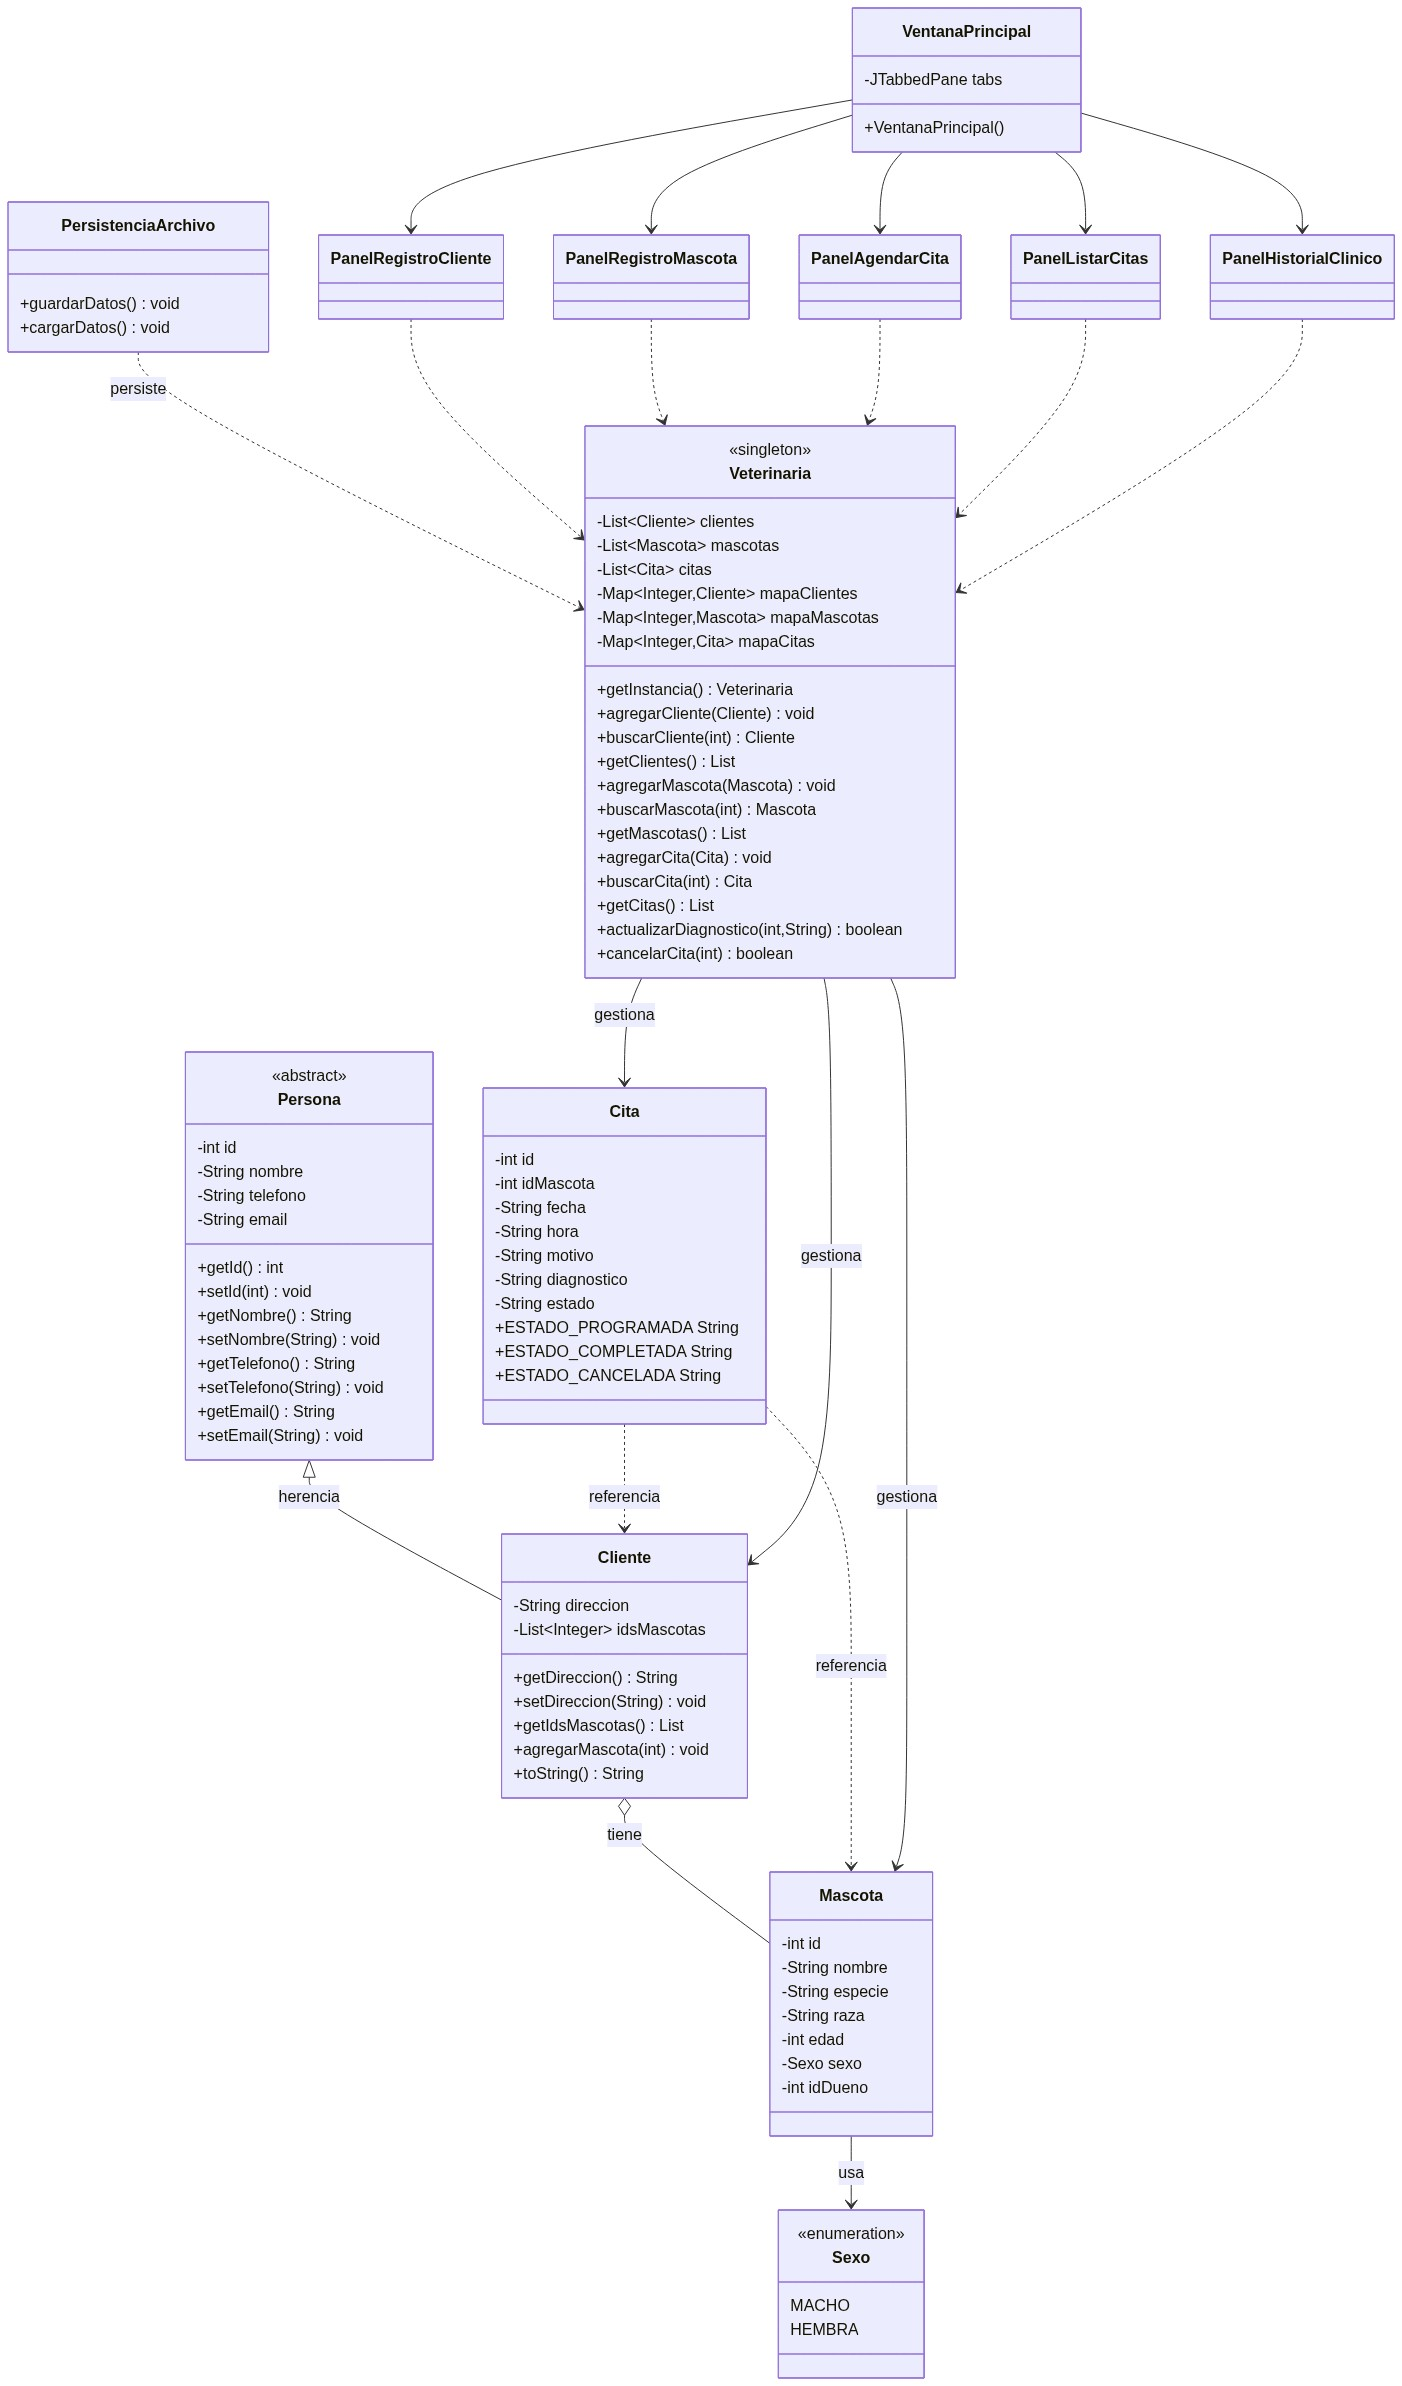
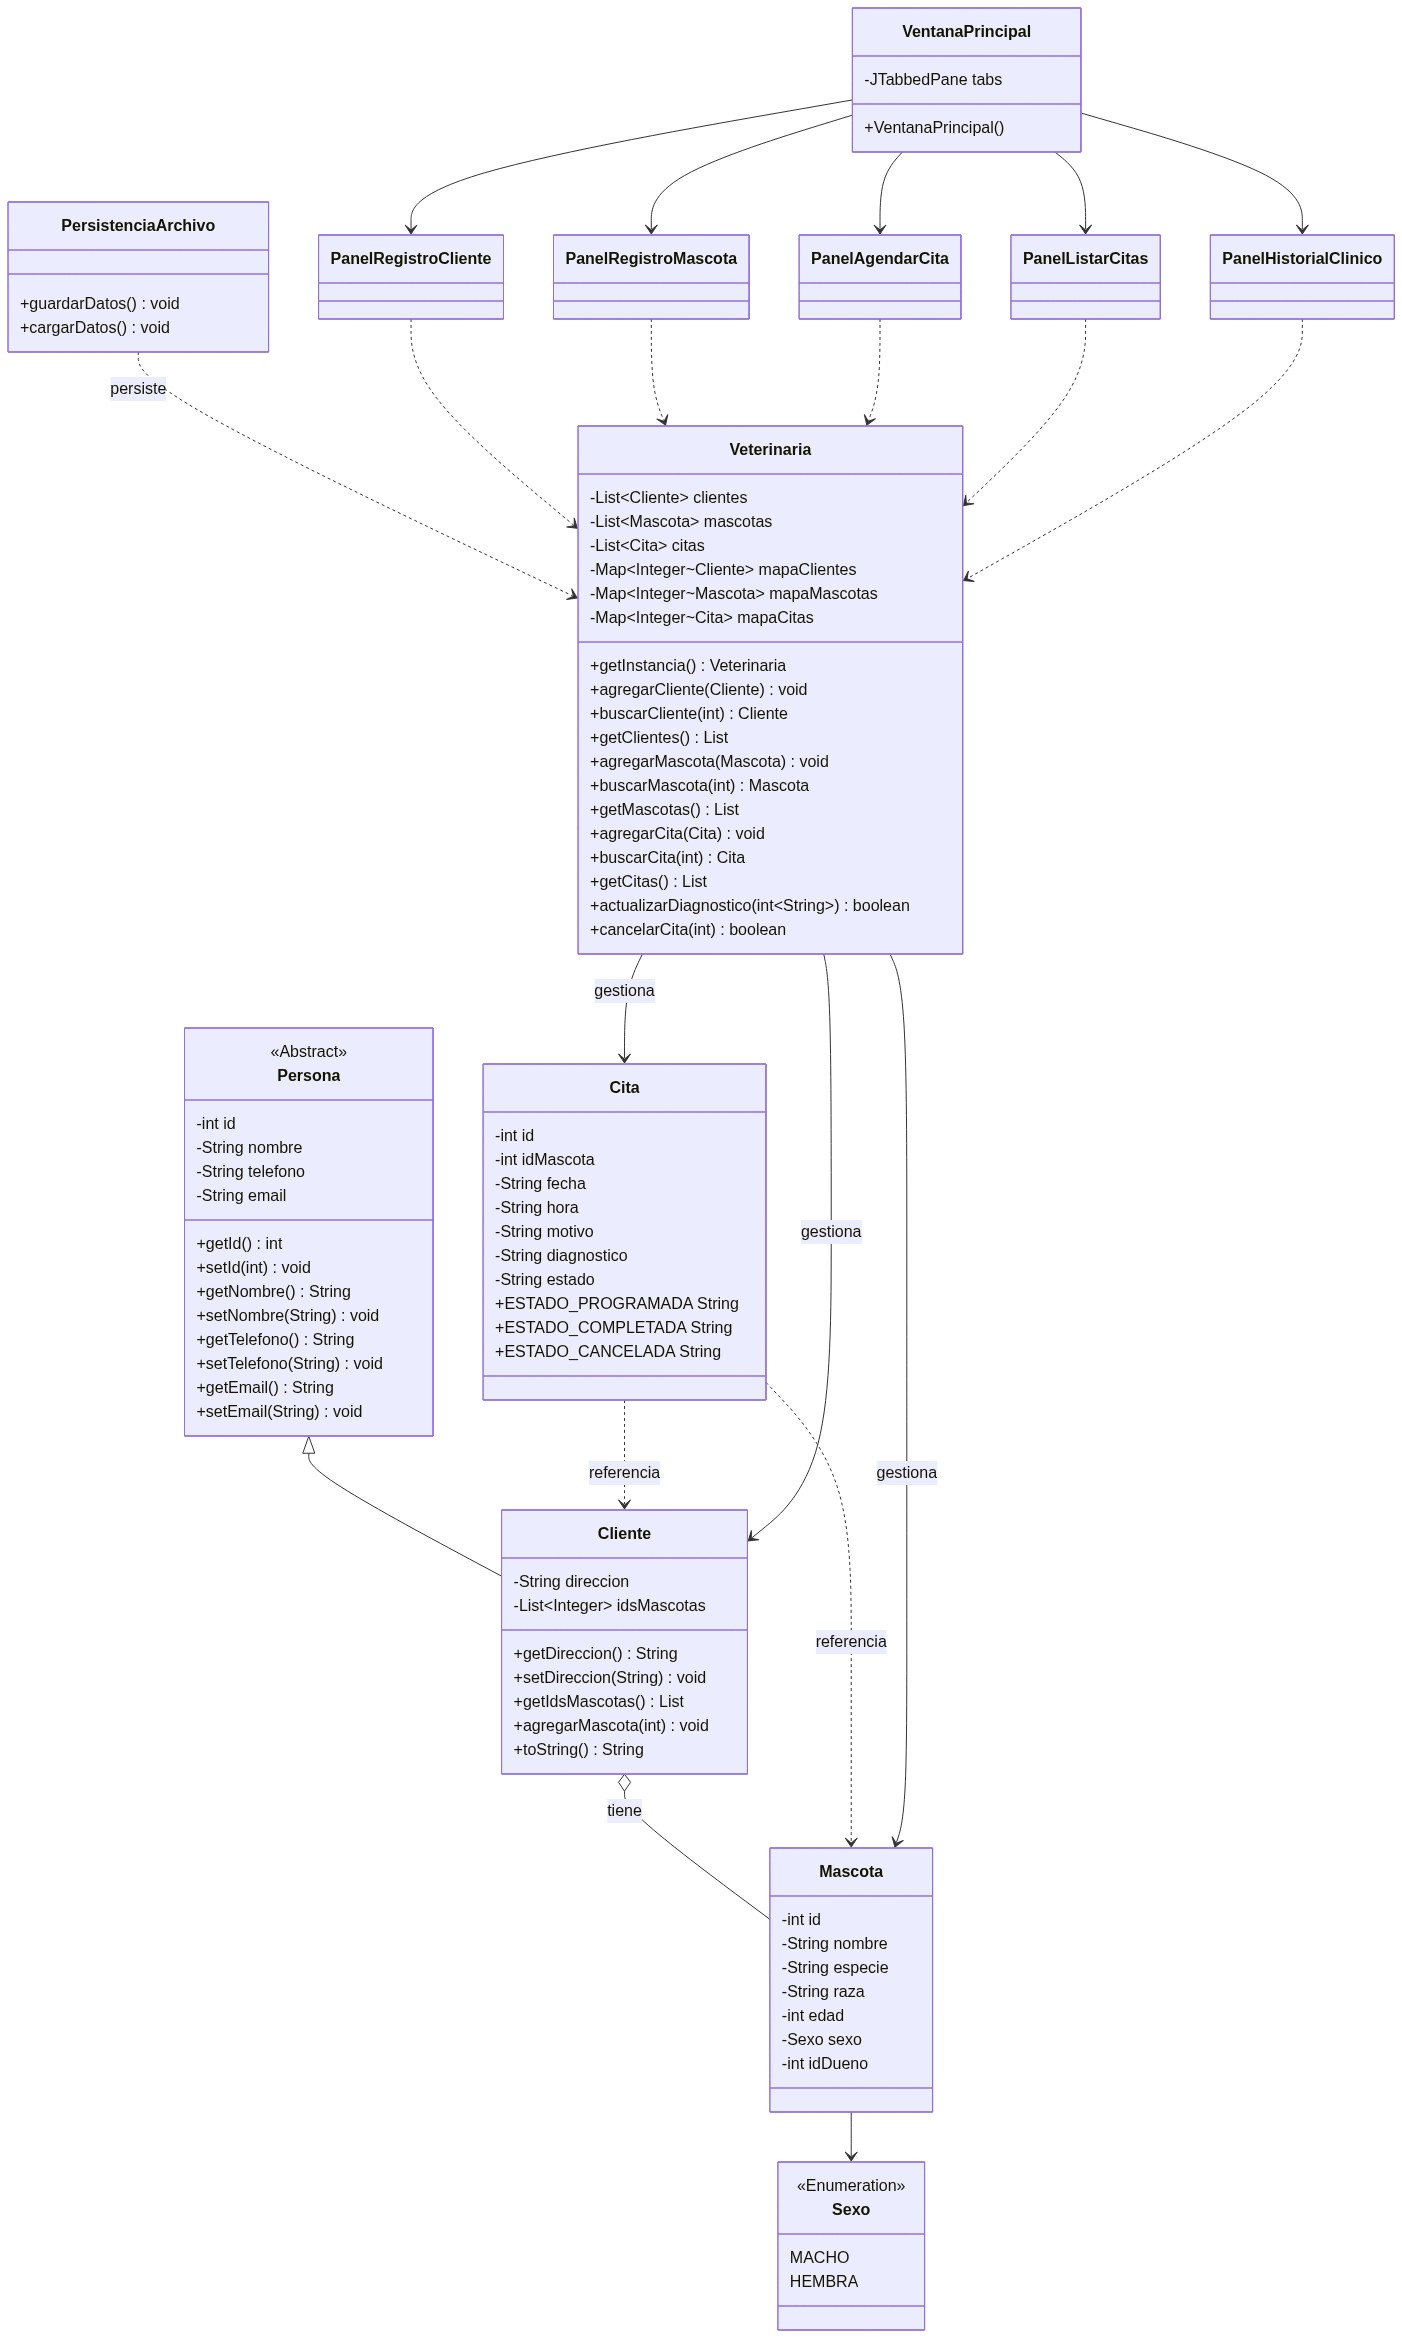
Corrige sintaxis Mermaid: quita blockquote, <<Abstract>>, <<Enumeration>>, sin <<singleton>>

diff --git a/docs/02_UML.md b/docs/02_UML.md
@@ -4,22 +4,20 @@
 
 ![Diagrama de Casos de Uso](diagrama_casos_uso.png)
 
-> Diagrama generado a partir del siguiente código Mermaid (compatible con GitHub):
->
-> ```mermaid
-> graph TD
->     Actor[Veterinario/Recepcionista] -->|Registrar Cliente| UC1[Registrar Cliente]
->     Actor -->|Registrar Mascota| UC2[Registrar Mascota]
->     Actor -->|Agendar Cita| UC3[Agendar Cita]
->     Actor -->|Completar Cita| UC4[Completar Cita con Diagnostico]
->     Actor -->|Cancelar Cita| UC5[Cancelar Cita]
->     Actor -->|Listar Citas| UC6[Listar y Filtrar Citas]
->     Actor -->|Consultar Historial| UC7[Consultar Historial Clinico]
->     Actor -->|Gestionar Datos| UC8[Persistencia en Archivos]
->     UC3 -.->|incluye| UC2
->     UC4 -.->|incluye| UC3
->     UC7 -.->|incluye| UC2
-> ```
+```mermaid
+graph TD
+    Actor[Veterinario/Recepcionista] -->|Registrar Cliente| UC1[Registrar Cliente]
+    Actor -->|Registrar Mascota| UC2[Registrar Mascota]
+    Actor -->|Agendar Cita| UC3[Agendar Cita]
+    Actor -->|Completar Cita| UC4[Completar Cita con Diagnostico]
+    Actor -->|Cancelar Cita| UC5[Cancelar Cita]
+    Actor -->|Listar Citas| UC6[Listar y Filtrar Citas]
+    Actor -->|Consultar Historial| UC7[Consultar Historial Clinico]
+    Actor -->|Gestionar Datos| UC8[Persistencia en Archivos]
+    UC3 -.->|incluye| UC2
+    UC4 -.->|incluye| UC3
+    UC7 -.->|incluye| UC2
+```
 
 ### Descripción de Actores
 
@@ -32,114 +30,111 @@
 
 ![Diagrama de Clases](diagrama_clases.png)
 
-> Diagrama generado a partir del siguiente código Mermaid (compatible con GitHub):
->
-> ```mermaid
-> classDiagram
->     class Persona {
->         <<abstract>>
->         -int id
->         -String nombre
->         -String telefono
->         -String email
->         +getId() int
->         +setId(int) void
->         +getNombre() String
->         +setNombre(String) void
->         +getTelefono() String
->         +setTelefono(String) void
->         +getEmail() String
->         +setEmail(String) void
->     }
->     class Cliente {
->         -String direccion
->         -List~Integer~ idsMascotas
->         +getDireccion() String
->         +setDireccion(String) void
->         +getIdsMascotas() List
->         +agregarMascota(int) void
->         +toString() String
->     }
->     class Mascota {
->         -int id
->         -String nombre
->         -String especie
->         -String raza
->         -int edad
->         -Sexo sexo
->         -int idDueno
->     }
->     class Sexo {
->         <<enumeration>>
->         MACHO
->         HEMBRA
->     }
->     class Cita {
->         -int id
->         -int idMascota
->         -String fecha
->         -String hora
->         -String motivo
->         -String diagnostico
->         -String estado
->         +ESTADO_PROGRAMADA String
->         +ESTADO_COMPLETADA String
->         +ESTADO_CANCELADA String
->     }
->     class Veterinaria {
->         <<singleton>>
->         -List~Cliente~ clientes
->         -List~Mascota~ mascotas
->         -List~Cita~ citas
->         -Map~Integer,Cliente~ mapaClientes
->         -Map~Integer,Mascota~ mapaMascotas
->         -Map~Integer,Cita~ mapaCitas
->         +getInstancia() Veterinaria
->         +agregarCliente(Cliente) void
->         +buscarCliente(int) Cliente
->         +getClientes() List
->         +agregarMascota(Mascota) void
->         +buscarMascota(int) Mascota
->         +getMascotas() List
->         +agregarCita(Cita) void
->         +buscarCita(int) Cita
->         +getCitas() List
->         +actualizarDiagnostico(int,String) boolean
->         +cancelarCita(int) boolean
->     }
->     class PersistenciaArchivo {
->         +guardarDatos() void
->         +cargarDatos() void
->     }
->     class VentanaPrincipal {
->         -JTabbedPane tabs
->         +VentanaPrincipal()
->     }
->     class PanelRegistroCliente
->     class PanelRegistroMascota
->     class PanelAgendarCita
->     class PanelListarCitas
->     class PanelHistorialClinico
->     Persona <|-- Cliente : herencia
->     Cliente o-- Mascota : tiene
->     Cita ..> Mascota : referencia
->     Cita ..> Cliente : referencia
->     Mascota --> Sexo : usa
->     Veterinaria --> Cliente : gestiona
->     Veterinaria --> Mascota : gestiona
->     Veterinaria --> Cita : gestiona
->     PersistenciaArchivo ..> Veterinaria : persiste
->     VentanaPrincipal --> PanelRegistroCliente
->     VentanaPrincipal --> PanelRegistroMascota
->     VentanaPrincipal --> PanelAgendarCita
->     VentanaPrincipal --> PanelListarCitas
->     VentanaPrincipal --> PanelHistorialClinico
->     PanelRegistroCliente ..> Veterinaria
->     PanelRegistroMascota ..> Veterinaria
->     PanelAgendarCita ..> Veterinaria
->     PanelListarCitas ..> Veterinaria
->     PanelHistorialClinico ..> Veterinaria
-> ```
+```mermaid
+classDiagram
+    class Persona {
+        <<Abstract>>
+        -int id
+        -String nombre
+        -String telefono
+        -String email
+        +getId() int
+        +setId(int) void
+        +getNombre() String
+        +setNombre(String) void
+        +getTelefono() String
+        +setTelefono(String) void
+        +getEmail() String
+        +setEmail(String) void
+    }
+    class Cliente {
+        -String direccion
+        -List~Integer~ idsMascotas
+        +getDireccion() String
+        +setDireccion(String) void
+        +getIdsMascotas() List
+        +agregarMascota(int) void
+        +toString() String
+    }
+    class Mascota {
+        -int id
+        -String nombre
+        -String especie
+        -String raza
+        -int edad
+        -Sexo sexo
+        -int idDueno
+    }
+    class Sexo {
+        <<Enumeration>>
+        MACHO
+        HEMBRA
+    }
+    class Cita {
+        -int id
+        -int idMascota
+        -String fecha
+        -String hora
+        -String motivo
+        -String diagnostico
+        -String estado
+        +ESTADO_PROGRAMADA String
+        +ESTADO_COMPLETADA String
+        +ESTADO_CANCELADA String
+    }
+    class Veterinaria {
+        -List~Cliente~ clientes
+        -List~Mascota~ mascotas
+        -List~Cita~ citas
+        -Map~Integer~Cliente~ mapaClientes
+        -Map~Integer~Mascota~ mapaMascotas
+        -Map~Integer~Cita~ mapaCitas
+        +getInstancia() Veterinaria
+        +agregarCliente(Cliente) void
+        +buscarCliente(int) Cliente
+        +getClientes() List
+        +agregarMascota(Mascota) void
+        +buscarMascota(int) Mascota
+        +getMascotas() List
+        +agregarCita(Cita) void
+        +buscarCita(int) Cita
+        +getCitas() List
+        +actualizarDiagnostico(int~String~) boolean
+        +cancelarCita(int) boolean
+    }
+    class PersistenciaArchivo {
+        +guardarDatos() void
+        +cargarDatos() void
+    }
+    class VentanaPrincipal {
+        -JTabbedPane tabs
+        +VentanaPrincipal()
+    }
+    class PanelRegistroCliente
+    class PanelRegistroMascota
+    class PanelAgendarCita
+    class PanelListarCitas
+    class PanelHistorialClinico
+    Persona <|-- Cliente
+    Cliente o-- Mascota : tiene
+    Cita ..> Mascota : referencia
+    Cita ..> Cliente : referencia
+    Mascota --> Sexo
+    Veterinaria --> Cliente : gestiona
+    Veterinaria --> Mascota : gestiona
+    Veterinaria --> Cita : gestiona
+    PersistenciaArchivo ..> Veterinaria : persiste
+    VentanaPrincipal --> PanelRegistroCliente
+    VentanaPrincipal --> PanelRegistroMascota
+    VentanaPrincipal --> PanelAgendarCita
+    VentanaPrincipal --> PanelListarCitas
+    VentanaPrincipal --> PanelHistorialClinico
+    PanelRegistroCliente ..> Veterinaria
+    PanelRegistroMascota ..> Veterinaria
+    PanelAgendarCita ..> Veterinaria
+    PanelListarCitas ..> Veterinaria
+    PanelHistorialClinico ..> Veterinaria
+```
 
 ## 3. Descripción de la Arquitectura
 